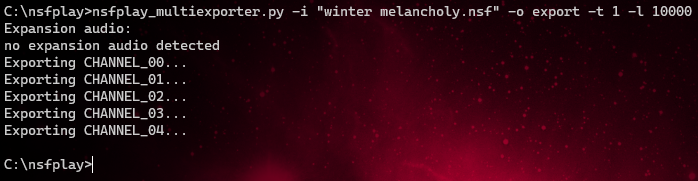
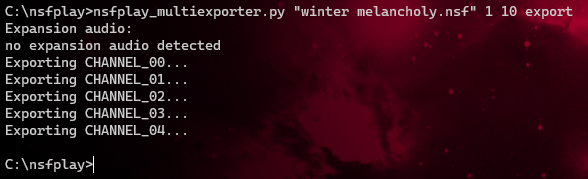
update readme

diff --git a/nsfplay_multichannel_exporter/README.md b/nsfplay_multichannel_exporter/README.md
@@ -5,29 +5,29 @@ Place the script in the NSFPlay folder, making sure it's next to `nsfplay.exe` a
 
 ![](nsfplay_folder.png)
 
-Note that this will generate tracks with nonlinear distortion, so make sure your configurations are set to deterministic settings (i.e. no random triangle phase, random noise phase, etc.)
+Note that this will generate tracks with nonlinear distortion, so make sure your configurations are set to deterministic settings (i.e. no random triangle phase, no random noise phase, etc.)
 
 ![](commandline.png)
 
 [Example oscilloscope video using the output files](https://youtu.be/71gAf07z7e4)
 
 ```
-usage: nsfplay_multiexporter.py [-h] [-i INPUTNSF] [-o OUTPUTWAV] [-t NSFTRACK] [-l WAVLENGTH] [-v]
+usage: nsfplay_multiexporter.py [-h] [-v] [-nch N163CHANNELS] inputnsf nsftrack wavlength outputwav
 
 NSFPlay Channel Exporter by Persune
 
+positional arguments:
+  inputnsf              NSF file input
+  nsftrack              Track of .nsf
+  wavlength             Length of .wav export in seconds
+  outputwav             WAV Export name
+
 optional arguments:
   -h, --help            show this help message and exit
-  -i INPUTNSF, --inputnsf INPUTNSF
-                        NSF file input
-  -o OUTPUTWAV, --outputwav OUTPUTWAV
-                        WAV Export name
-  -t NSFTRACK, --nsftrack NSFTRACK
-                        Track of .nsf
-  -l WAVLENGTH, --wavlength WAVLENGTH
-                        Length of .wav export in milliseconds
   -v, --verbose         Enable output verbosity
+  -nch N163CHANNELS, --n163channels N163CHANNELS
+                        Specify number of N163 channels. Default is 8
 
-version beta 0.2
+version beta 0.4
 ```
 
